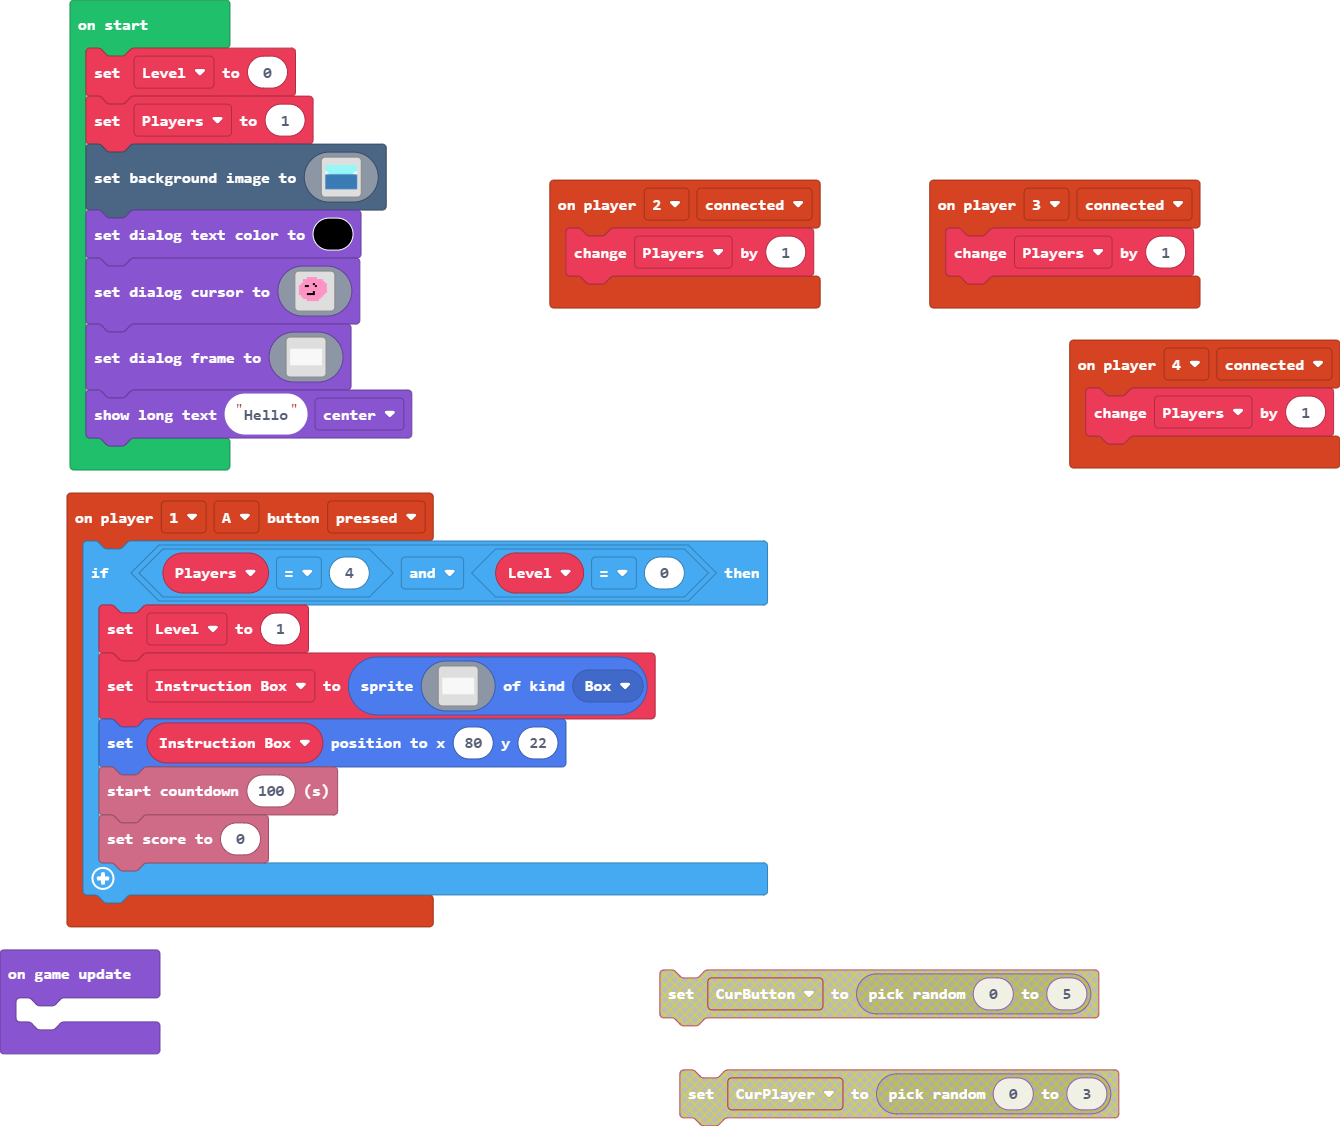
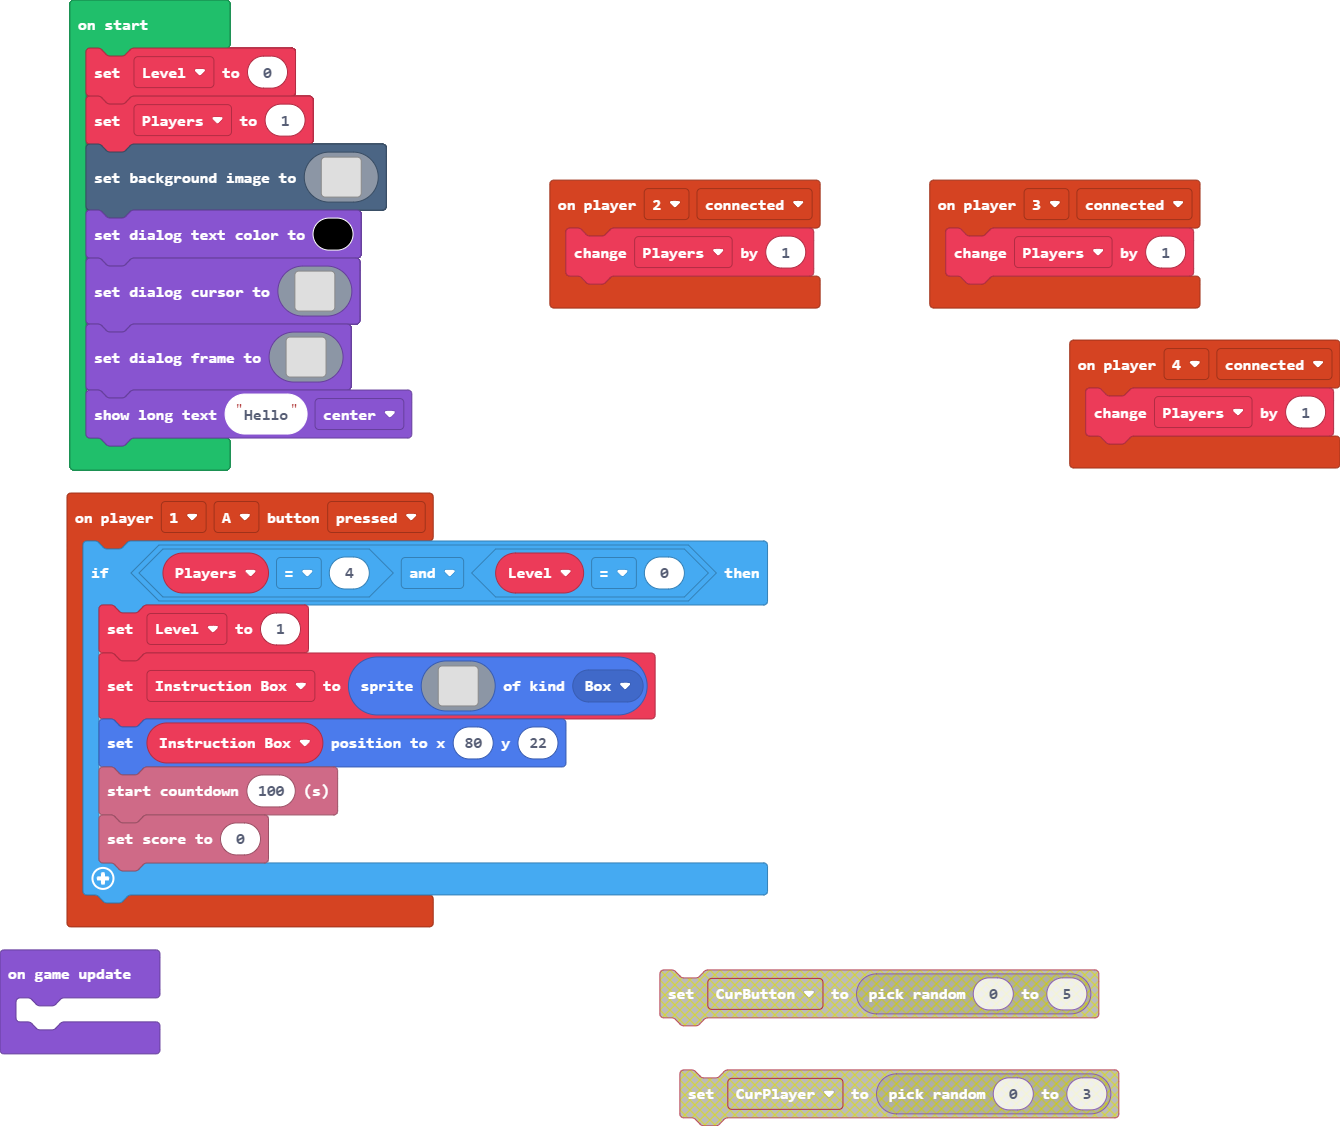
Update main.blocks, main.ts, tilemap.g.jres, tilemap.g.ts

diff --git a/main.ts b/main.ts
@@ -10,7 +10,24 @@ controller.player3.onEvent(ControllerEvent.Connected, function () {
 controller.player1.onButtonEvent(ControllerButton.A, ControllerButtonEvent.Pressed, function () {
     if (Players == 4 && Level == 0) {
         Level = 1
-        Instruction_Box = sprites.create(assets.image`Instruction Box`, SpriteKind.Box)
+        Instruction_Box = sprites.create(img`
+            . . . . . . . . . . . . . . . . 
+            . . . . . . . . . . . . . . . . 
+            . . . . . . . . . . . . . . . . 
+            . . . . . . . . . . . . . . . . 
+            . . . . . . . . . . . . . . . . 
+            . . . . . . . . . . . . . . . . 
+            . . . . . . . . . . . . . . . . 
+            . . . . . . . . . . . . . . . . 
+            . . . . . . . . . . . . . . . . 
+            . . . . . . . . . . . . . . . . 
+            . . . . . . . . . . . . . . . . 
+            . . . . . . . . . . . . . . . . 
+            . . . . . . . . . . . . . . . . 
+            . . . . . . . . . . . . . . . . 
+            . . . . . . . . . . . . . . . . 
+            . . . . . . . . . . . . . . . . 
+            `, SpriteKind.Box)
         Instruction_Box.setPosition(80, 22)
         info.startCountdown(100)
         info.setScore(0)
@@ -24,10 +41,164 @@ let Players = 0
 let Level = 0
 Level = 0
 Players = 1
-scene.setBackgroundImage(assets.image`Ocean`)
+scene.setBackgroundImage(img`
+    ................................................................................................................................................................
+    ................................................................................................................................................................
+    ................................................................................................................................................................
+    ................................................................................................................................................................
+    ................................................................................................................................................................
+    ................................................................................................................................................................
+    ................................................................................................................................................................
+    ................................................................................................................................................................
+    ................................................................................................................................................................
+    ................................................................................................................................................................
+    ................................................................................................................................................................
+    ................................................................................................................................................................
+    ................................................................................................................................................................
+    ................................................................................................................................................................
+    ................................................................................................................................................................
+    ................................................................................................................................................................
+    ................................................................................................................................................................
+    ................................................................................................................................................................
+    ................................................................................................................................................................
+    ................................................................................................................................................................
+    ................................................................................................................................................................
+    ................................................................................................................................................................
+    ................................................................................................................................................................
+    ................................................................................................................................................................
+    ................................................................................................................................................................
+    ................................................................................................................................................................
+    ................................................................................................................................................................
+    ................................................................................................................................................................
+    ................................................................................................................................................................
+    ................................................................................................................................................................
+    ................................................................................................................................................................
+    ................................................................................................................................................................
+    ................................................................................................................................................................
+    ................................................................................................................................................................
+    ................................................................................................................................................................
+    ................................................................................................................................................................
+    ................................................................................................................................................................
+    ................................................................................................................................................................
+    ................................................................................................................................................................
+    ................................................................................................................................................................
+    ................................................................................................................................................................
+    ................................................................................................................................................................
+    ................................................................................................................................................................
+    ................................................................................................................................................................
+    ................................................................................................................................................................
+    ................................................................................................................................................................
+    ................................................................................................................................................................
+    ................................................................................................................................................................
+    ................................................................................................................................................................
+    ................................................................................................................................................................
+    ................................................................................................................................................................
+    ................................................................................................................................................................
+    ................................................................................................................................................................
+    ................................................................................................................................................................
+    ................................................................................................................................................................
+    ................................................................................................................................................................
+    ................................................................................................................................................................
+    ................................................................................................................................................................
+    ................................................................................................................................................................
+    ................................................................................................................................................................
+    ................................................................................................................................................................
+    ................................................................................................................................................................
+    ................................................................................................................................................................
+    ................................................................................................................................................................
+    ................................................................................................................................................................
+    ................................................................................................................................................................
+    ................................................................................................................................................................
+    ................................................................................................................................................................
+    ................................................................................................................................................................
+    ................................................................................................................................................................
+    ................................................................................................................................................................
+    ................................................................................................................................................................
+    ................................................................................................................................................................
+    ................................................................................................................................................................
+    ................................................................................................................................................................
+    ................................................................................................................................................................
+    ................................................................................................................................................................
+    ................................................................................................................................................................
+    ................................................................................................................................................................
+    ................................................................................................................................................................
+    ................................................................................................................................................................
+    ................................................................................................................................................................
+    ................................................................................................................................................................
+    ................................................................................................................................................................
+    ................................................................................................................................................................
+    ................................................................................................................................................................
+    ................................................................................................................................................................
+    ................................................................................................................................................................
+    ................................................................................................................................................................
+    ................................................................................................................................................................
+    ................................................................................................................................................................
+    ................................................................................................................................................................
+    ................................................................................................................................................................
+    ................................................................................................................................................................
+    ................................................................................................................................................................
+    ................................................................................................................................................................
+    ................................................................................................................................................................
+    ................................................................................................................................................................
+    ................................................................................................................................................................
+    ................................................................................................................................................................
+    ................................................................................................................................................................
+    ................................................................................................................................................................
+    ................................................................................................................................................................
+    ................................................................................................................................................................
+    ................................................................................................................................................................
+    ................................................................................................................................................................
+    ................................................................................................................................................................
+    ................................................................................................................................................................
+    ................................................................................................................................................................
+    ................................................................................................................................................................
+    ................................................................................................................................................................
+    ................................................................................................................................................................
+    ................................................................................................................................................................
+    ................................................................................................................................................................
+    ................................................................................................................................................................
+    ................................................................................................................................................................
+    ................................................................................................................................................................
+    ................................................................................................................................................................
+    ................................................................................................................................................................
+    ................................................................................................................................................................
+    `)
 game.setDialogTextColor(15)
-game.setDialogCursor(assets.image`Test`)
-game.setDialogFrame(assets.image`Instruction Box`)
+game.setDialogCursor(img`
+    . . . . . . . . . . . . . . . . 
+    . . . . . . . . . . . . . . . . 
+    . . . . . . . . . . . . . . . . 
+    . . . . . . . . . . . . . . . . 
+    . . . . . . . . . . . . . . . . 
+    . . . . . . . . . . . . . . . . 
+    . . . . . . . . . . . . . . . . 
+    . . . . . . . . . . . . . . . . 
+    . . . . . . . . . . . . . . . . 
+    . . . . . . . . . . . . . . . . 
+    . . . . . . . . . . . . . . . . 
+    . . . . . . . . . . . . . . . . 
+    . . . . . . . . . . . . . . . . 
+    . . . . . . . . . . . . . . . . 
+    . . . . . . . . . . . . . . . . 
+    . . . . . . . . . . . . . . . . 
+    `)
+game.setDialogFrame(img`
+    . . . . . . . . . . . . . . . 
+    . . . . . . . . . . . . . . . 
+    . . . . . . . . . . . . . . . 
+    . . . . . . . . . . . . . . . 
+    . . . . . . . . . . . . . . . 
+    . . . . . . . . . . . . . . . 
+    . . . . . . . . . . . . . . . 
+    . . . . . . . . . . . . . . . 
+    . . . . . . . . . . . . . . . 
+    . . . . . . . . . . . . . . . 
+    . . . . . . . . . . . . . . . 
+    . . . . . . . . . . . . . . . 
+    . . . . . . . . . . . . . . . 
+    . . . . . . . . . . . . . . . 
+    . . . . . . . . . . . . . . . 
+    `)
 game.showLongText("Hello", DialogLayout.Center)
 game.onUpdate(function () {
 	

diff --git a/tilemap.g.ts b/tilemap.g.ts
@@ -1,15 +1,5 @@
 // Auto-generated code. Do not edit.
 namespace myTiles {
-    //% fixedInstance jres blockIdentity=images._tile
-    export const transparency16 = image.ofBuffer(hex``);
-
-    helpers._registerFactory("tile", function(name: string) {
-        switch(helpers.stringTrim(name)) {
-            case "transparency16":return transparency16;
-        }
-        return null;
-    })
-
 
 }
 // Auto-generated code. Do not edit.
